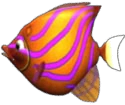
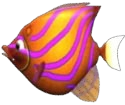
feat: render 5 fish species from assets with realistic tail-wagging animation v2.5.2

diff --git a/lib/views/login_view.dart b/lib/views/login_view.dart
@@ -44,8 +44,15 @@ class _LoginViewState extends State<LoginView> with TickerProviderStateMixin {
   // Ocean Ticker Controller for 60 FPS continuous rendering
   late AnimationController _oceanController;
 
-  // Decoded Feeding Frenzy Fish Image Asset
-  ui.Image? _fishUiImage;
+  // Decoded Feeding Frenzy Fish Image Assets (5 species)
+  List<ui.Image?> _fishImages = List.filled(5, null);
+  static const List<String> _fishAssets = [
+    'assets/images/fish_feeding_frenzy.png',
+    'assets/images/shark_feeding_frenzy.png',
+    'assets/images/baraccuda_feeding_frenzy.png',
+    'assets/images/orca_feeding_frenzy.png',
+    'assets/images/anglerfish_feeding_frenzy.png',
+  ];
 
   @override
   void initState() {
@@ -109,18 +116,20 @@ class _LoginViewState extends State<LoginView> with TickerProviderStateMixin {
   }
 
   Future<void> _loadFishImage() async {
-    try {
-      final data = await rootBundle.load('assets/images/fish_feeding_frenzy.png');
-      final bytes = data.buffer.asUint8List();
-      final codec = await ui.instantiateImageCodec(bytes);
-      final frame = await codec.getNextFrame();
-      if (mounted) {
-        setState(() {
-          _fishUiImage = frame.image;
-        });
+    for (int i = 0; i < _fishAssets.length; i++) {
+      try {
+        final data = await rootBundle.load(_fishAssets[i]);
+        final bytes = data.buffer.asUint8List();
+        final codec = await ui.instantiateImageCodec(bytes);
+        final frame = await codec.getNextFrame();
+        if (mounted) {
+          setState(() {
+            _fishImages[i] = frame.image;
+          });
+        }
+      } catch (e) {
+        debugPrint("Error loading fish image ${_fishAssets[i]}: $e");
       }
-    } catch (e) {
-      debugPrint("Error loading Feeding Frenzy fish image: $e");
     }
   }
 
@@ -334,7 +343,7 @@ class _LoginViewState extends State<LoginView> with TickerProviderStateMixin {
                 return CustomPaint(
                   painter: OceanFeedingFrenzyPainter(
                     timeSec: nowSec,
-                    fishImage: _fishUiImage,
+                    fishImages: _fishImages,
                     focusMode: _focusMode,
                     isObscured: _obscureText,
                     heroX: _heroCurrentX,
@@ -677,7 +686,7 @@ class _LoginViewState extends State<LoginView> with TickerProviderStateMixin {
 /// 🎨 CustomPainter for high-performance Seamless Feeding Frenzy Animated Ocean
 class OceanFeedingFrenzyPainter extends CustomPainter {
   final double timeSec; // Continuous epoch time in seconds
-  final ui.Image? fishImage; // Decoded Feeding Frenzy fish PNG
+  final List<ui.Image?> fishImages; // 5 Decoded species PNGs
   final int focusMode; // 0 = none, 1 = username focused, 2 = password focused
   final bool isObscured; // true = password hidden, false = password shown
   final double heroX; // Smooth lerped X position
@@ -686,7 +695,7 @@ class OceanFeedingFrenzyPainter extends CustomPainter {
 
   OceanFeedingFrenzyPainter({
     required this.timeSec,
-    this.fishImage,
+    this.fishImages = const [],
     this.focusMode = 0,
     this.isObscured = true,
     this.heroX = 0.0,
@@ -694,15 +703,16 @@ class OceanFeedingFrenzyPainter extends CustomPainter {
     this.bgFishPos = const [],
   });
 
-  // Procedural background fish data with varied sizes and speeds
+  // Procedural background fish data with varied sizes, speeds, and species
+  // imageIndex: 0=fish, 1=shark, 2=baraccuda, 3=orca, 4=anglerfish
   static final List<_FishData> _fishList = [
-    _FishData(yPercent: 0.14, speed: 45.0, size: 28, direction: 1, color: const Color(0xFF38BDF8), initialXPercent: 0.05),
-    _FishData(yPercent: 0.26, speed: 65.0, size: 22, direction: -1, color: const Color(0xFFF59E0B), initialXPercent: 0.85),
-    _FishData(yPercent: 0.38, speed: 35.0, size: 38, direction: 1, color: const Color(0xFF10B981), initialXPercent: 0.35),
-    _FishData(yPercent: 0.72, speed: 75.0, size: 20, direction: -1, color: const Color(0xFFEC4899), initialXPercent: 0.70),
-    _FishData(yPercent: 0.80, speed: 50.0, size: 34, direction: 1, color: const Color(0xFFA855F7), initialXPercent: 0.15),
-    _FishData(yPercent: 0.86, speed: 60.0, size: 26, direction: -1, color: const Color(0xFF06B6D4), initialXPercent: 0.50),
-    _FishData(yPercent: 0.18, speed: 85.0, size: 18, direction: 1, color: const Color(0xFFF43F5E), initialXPercent: 0.60),
+    _FishData(yPercent: 0.14, speed: 45.0, size: 28, direction: 1, color: const Color(0xFF38BDF8), initialXPercent: 0.05, imageIndex: 0),
+    _FishData(yPercent: 0.26, speed: 65.0, size: 30, direction: -1, color: const Color(0xFF64748B), initialXPercent: 0.85, imageIndex: 1),
+    _FishData(yPercent: 0.38, speed: 35.0, size: 26, direction: 1, color: const Color(0xFF10B981), initialXPercent: 0.35, imageIndex: 2),
+    _FishData(yPercent: 0.72, speed: 75.0, size: 24, direction: -1, color: const Color(0xFF1E293B), initialXPercent: 0.70, imageIndex: 3),
+    _FishData(yPercent: 0.80, speed: 50.0, size: 28, direction: 1, color: const Color(0xFFA855F7), initialXPercent: 0.15, imageIndex: 4),
+    _FishData(yPercent: 0.86, speed: 60.0, size: 26, direction: -1, color: const Color(0xFF06B6D4), initialXPercent: 0.50, imageIndex: 0),
+    _FishData(yPercent: 0.18, speed: 85.0, size: 22, direction: 1, color: const Color(0xFFF43F5E), initialXPercent: 0.60, imageIndex: 2),
   ];
 
   // Procedural bubbles
@@ -788,16 +798,19 @@ class OceanFeedingFrenzyPainter extends CustomPainter {
         }
         final verticalBob = sin(timeSec * 2.5 + i * 2.0) * 5.0;
         final rot = focusMode > 0 ? sin(timeSec * 3.0 + i) * 0.10 : 0.0;
-        _drawFish(canvas, pos, f.size, dir, f.color, verticalBob, rot, fishImage);
+        final img = (f.imageIndex < fishImages.length) ? fishImages[f.imageIndex] : null;
+        _drawFish(canvas, pos, f.size, dir, f.color, verticalBob, rot, img, timeWagPhase: i * 1.5);
       }
     } else {
-      for (var f in _fishList) {
+      for (int i = 0; i < _fishList.length; i++) {
+        final f = _fishList[i];
         final totalTravel = width + f.size * 6;
         final distance = timeSec * f.speed;
         final rawDistance = (f.initialXPercent * width + distance) % totalTravel;
         final posX = f.direction == 1 ? rawDistance - f.size * 3 : width + f.size * 3 - rawDistance;
         final verticalBob = sin(timeSec * 2.5 + f.initialXPercent * 10) * 8.0;
-        _drawFish(canvas, Offset(posX, f.yPercent * height), f.size, f.direction, f.color, verticalBob, 0.0, fishImage);
+        final img = (f.imageIndex < fishImages.length) ? fishImages[f.imageIndex] : null;
+        _drawFish(canvas, Offset(posX, f.yPercent * height), f.size, f.direction, f.color, verticalBob, 0.0, img, timeWagPhase: i * 1.5);
       }
     }
 
@@ -857,7 +870,8 @@ class OceanFeedingFrenzyPainter extends CustomPainter {
       rotation = 0.0;
     }
 
-    _drawFish(canvas, Offset(posX, posY), heroSize, direction, heroColor, verticalBob, rotation, fishImage);
+    final heroImg = fishImages.isNotEmpty ? fishImages[0] : null;
+    _drawFish(canvas, Offset(posX, posY), heroSize, direction, heroColor, verticalBob, rotation, heroImg, timeWagPhase: 0.0);
   }
 
   void _drawSeaweed(Canvas canvas, Size size) {
@@ -895,9 +909,10 @@ class OceanFeedingFrenzyPainter extends CustomPainter {
     }
   }
 
-  void _drawFish(Canvas canvas, Offset center, double size, int direction, Color color, double verticalBob, double rotation, ui.Image? img) {
+  void _drawFish(Canvas canvas, Offset center, double size, int direction, Color color, double verticalBob, double rotation, ui.Image? img, {double timeWagPhase = 0.0}) {
     canvas.save();
     canvas.translate(center.dx, center.dy + verticalBob);
+
     if (rotation != 0.0) {
       canvas.rotate(rotation);
     }
@@ -907,6 +922,10 @@ class OceanFeedingFrenzyPainter extends CustomPainter {
     if (direction == 1) {
       canvas.scale(-1, 1);
     }
+
+    // 🐟 Realist Tail Wagging Oscillation (Dynamic Skew & Pitch transform)
+    final tailWag = sin(timeSec * 8.0 + timeWagPhase) * 0.08;
+    canvas.skew(0.0, tailWag);
 
     if (img != null) {
       final rect = Rect.fromCenter(center: Offset.zero, width: size * 2.8, height: size * 2.2);
@@ -944,7 +963,7 @@ class OceanFeedingFrenzyPainter extends CustomPainter {
   @override
   bool shouldRepaint(covariant OceanFeedingFrenzyPainter oldDelegate) {
     return oldDelegate.timeSec != timeSec ||
-        oldDelegate.fishImage != fishImage ||
+        oldDelegate.fishImages != fishImages ||
         oldDelegate.focusMode != focusMode ||
         oldDelegate.isObscured != isObscured;
   }
@@ -957,6 +976,7 @@ class _FishData {
   final int direction; // 1 for right, -1 for left
   final Color color;
   final double initialXPercent;
+  final int imageIndex; // 0=fish, 1=shark, 2=barracuda, 3=orca, 4=anglerfish
 
   _FishData({
     required this.yPercent,
@@ -965,6 +985,7 @@ class _FishData {
     required this.direction,
     required this.color,
     required this.initialXPercent,
+    this.imageIndex = 0,
   });
 }
 
